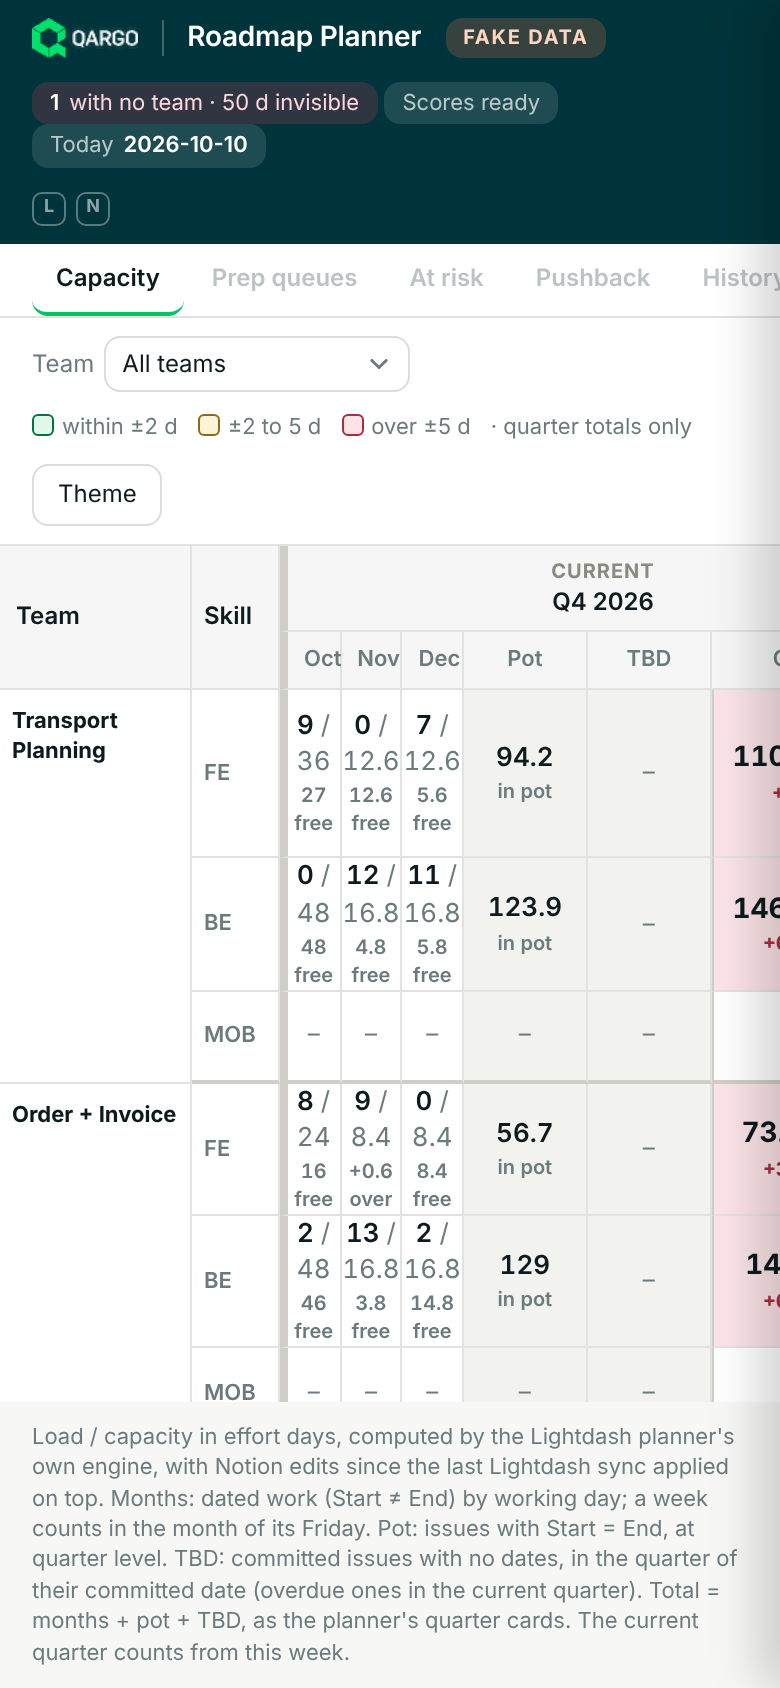
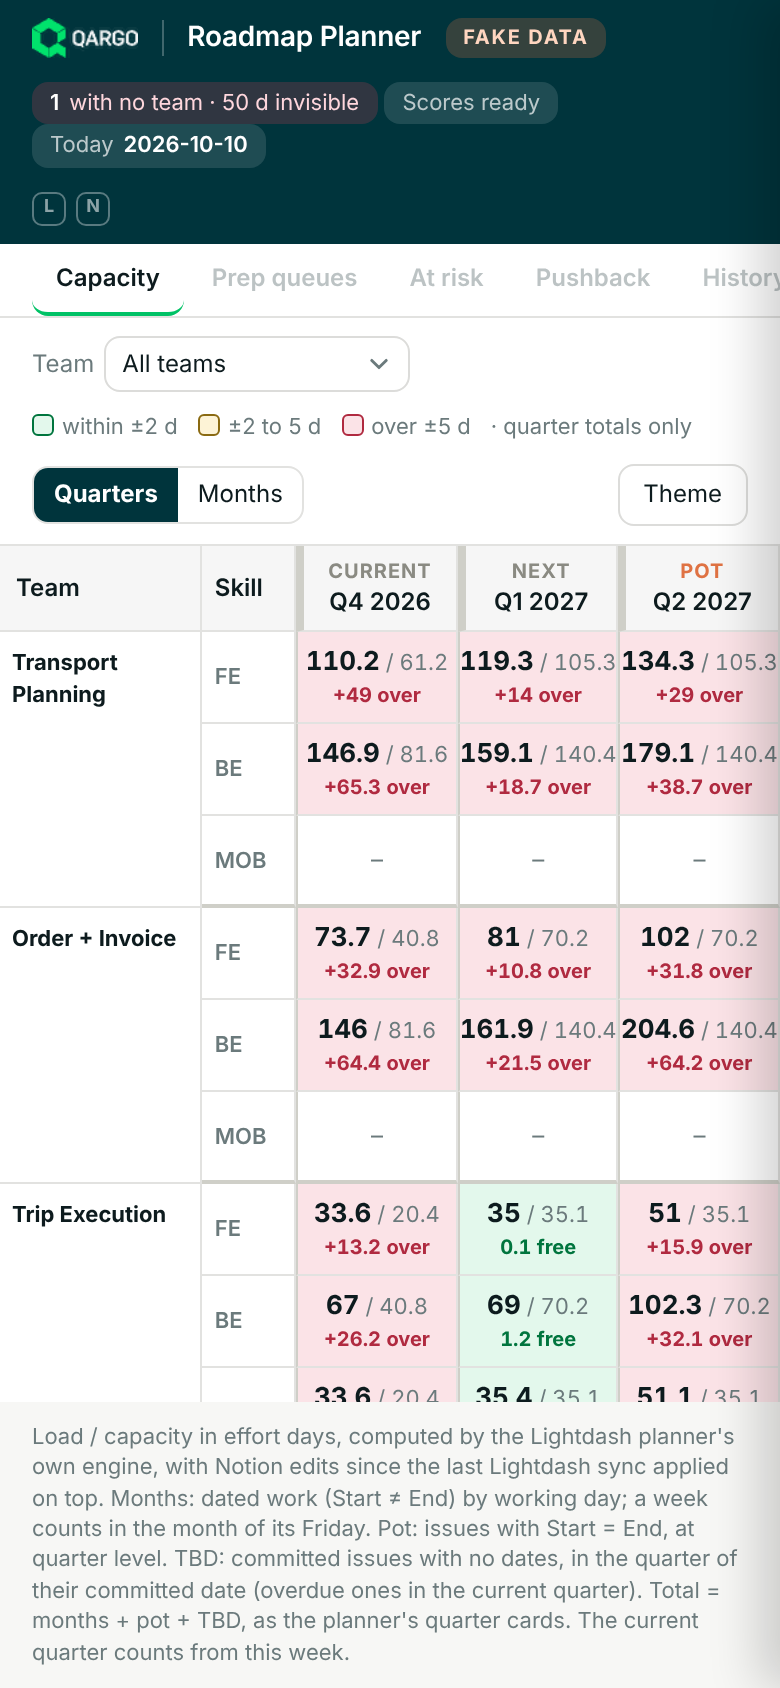
Quarters view (default on phones), pull-forward top 20 with Show all
Claude-Session: https://claude.ai/code/session_01XsKd44qXQpBiwf2E6HxLbu

diff --git a/src/ui/grid.js b/src/ui/grid.js
@@ -1,4 +1,5 @@
 // Capacity grid: rows = team × skill; per quarter its 3 months, the pot and the quarter total.
+// view 'quarters' shows only the quarter totals (default on phones, decided 2026-10-10).
 
 import { TEAMS } from '../capacity.js';
 
@@ -26,20 +27,21 @@ function bucketCell(days, attrs, kind) {
   return `<td class="cell pot ${kind}" ${attrs} title="${fmt(days)} days ${title}"><div class="n">${fmt(days)}</div><div class="d">${kind === 'tbd' ? 'TBD' : 'in pot'}</div></td>`;
 }
 
-export function renderGrid(el, grid, horizon, { teamFilter = 'all' } = {}) {
+export function renderGrid(el, grid, horizon, { teamFilter = 'all', view = 'months' } = {}) {
   const teams = teamFilter === 'all' ? TEAMS : [teamFilter];
-  let h = '<table class="grid"><colgroup><col class="c-team"><col class="c-skill">';
-  for (let i = 0; i < horizon.length; i++) h += '<col><col><col><col class="c-pot"><col class="c-pot"><col class="c-qt">';
-  h += '</colgroup><thead><tr class="q"><th class="lead" rowspan="2">Team</th><th class="lead2" rowspan="2">Skill</th>';
+  const qOnly = view === 'quarters';
+  let h = `<table class="grid ${qOnly ? 'quarters' : ''}"><colgroup><col class="c-team"><col class="c-skill">`;
+  for (let i = 0; i < horizon.length; i++) h += qOnly ? '<col class="c-qt">' : '<col><col><col><col class="c-pot"><col class="c-pot"><col class="c-qt">';
+  h += `</colgroup><thead><tr class="q"><th class="lead" rowspan="${qOnly ? 1 : 2}">Team</th><th class="lead2" rowspan="${qOnly ? 1 : 2}">Skill</th>`;
   for (const q of horizon) {
-    h += `<th colspan="6" class="qdiv ${q.role}"><span class="role">${ROLE_LABEL[q.role]}</span>${esc(q.label)}</th>`;
+    h += `<th colspan="${qOnly ? 1 : 6}" class="qdiv ${q.role}"><span class="role">${ROLE_LABEL[q.role]}</span>${esc(q.label)}</th>`;
   }
-  h += '</tr><tr class="m">';
-  for (const q of horizon) {
+  h += qOnly ? '</tr>' : '</tr><tr class="m">';
+  for (const q of qOnly ? [] : horizon) {
     q.months.forEach((m, i) => { h += `<th class="${i === 0 ? 'qdiv' : ''}">${m.label} ${String(m.year).slice(2)}</th>`; });
     h += `<th title="Issues with Start = End">Pot</th><th title="Committed, no dates yet">TBD</th><th>${q.shortLabel} total</th>`;
   }
-  h += '</tr></thead><tbody>';
+  h += qOnly ? '</thead><tbody>' : '</tr></thead><tbody>';
 
   for (const team of teams) {
     const rows = grid.rows.filter((r) => r.team === team);
@@ -56,6 +58,7 @@ export function renderGrid(el, grid, horizon, { teamFilter = 'all' } = {}) {
       h += `<td class="lead2">${row.skill}</td>`;
       const at = (period) => `data-team="${esc(team)}" data-skill="${row.skill}" data-period="${period}"`;
       row.quarters.forEach((q) => {
+        if (qOnly) { h += cell(q, at(q.key), 'qt qdiv'); return; }
         q.months.forEach((m, i) => { h += cell(m, at(m.key), i === 0 ? 'qdiv' : '', true); });
         h += bucketCell(q.pot, at(`${q.key}-pot`), 'potc');
         h += bucketCell(q.tbd, at(`${q.key}-tbd`), 'tbd');

diff --git a/src/ui/app.js b/src/ui/app.js
@@ -20,7 +20,13 @@ const NOW = new Date(ty, tm - 1, td, 12);
 const horizon = buildHorizon(TODAY);
 const esc = (s) => String(s).replace(/[&<>"]/g, (c) => ({ '&': '&amp;', '<': '&lt;', '>': '&gt;', '"': '&quot;' }[c]));
 
+function initialView() {
+  try { const v = localStorage.getItem('rp.view'); if (v === 'quarters' || v === 'months') return v; } catch { /* storage unavailable */ }
+  return matchMedia('(max-width: 700px)').matches ? 'quarters' : 'months';
+}
+
 const state = {
+  view: initialView(),
   teamFilter: 'all', mode: 'loading', status: null, run: null, grid: null, noTeam: [],
   rows: null, // default Lightdash rows (overlaid)
   // Background load (SPEC "Data flow"): scores need the uncommitted FRs, pull forward the unplanned backlog.
@@ -74,6 +80,7 @@ function shell() {
           <span><span class="sw red"></span>over ±5 d</span>
           <span>· quarter totals only</span>
         </span>
+        <span class="seg" id="viewSeg"><button data-view="quarters">Quarters</button><button data-view="months">Months</button></span>
         <span class="spacer" style="flex:1"></span>
         <button id="themeBtn" title="Light / dark">Theme</button>
       </div>
@@ -85,6 +92,13 @@ function shell() {
 
   document.getElementById('teamSel').addEventListener('change', (e) => { state.teamFilter = e.target.value; draw(); });
   document.getElementById('themeBtn').addEventListener('click', themeToggle);
+  document.getElementById('viewSeg').addEventListener('click', (e) => {
+    const b = e.target.closest('button[data-view]');
+    if (!b) return;
+    state.view = b.dataset.view;
+    try { localStorage.setItem('rp.view', state.view); } catch { /* storage unavailable */ }
+    draw();
+  });
   document.getElementById('grid').addEventListener('click', (e) => {
     const cell = e.target.closest('td.cell[data-period]');
     if (!cell || !state.run) return;
@@ -164,6 +178,7 @@ function renderChrome() {
 }
 
 function draw() {
+  document.querySelectorAll('#viewSeg button').forEach((b) => b.classList.toggle('on', b.dataset.view === state.view));
   if (state.grid) renderGrid(document.getElementById('grid'), state.grid, horizon, state);
 }
 

diff --git a/src/ui/styles.css b/src/ui/styles.css
@@ -204,6 +204,16 @@ table.grid { border-collapse: separate; border-spacing: 0; font-size: 12px; tabl
 .frs li { padding: 6px 0; border-bottom: 1px solid var(--line); color: var(--ink); }
 .frs li .frt { color: var(--muted); margin-top: 2px; }
 .frs .mult { font-weight: 700; color: var(--ok-ink); }
+.seg { display: inline-flex; border: 1px solid var(--line); border-radius: 8px; overflow: hidden; }
+.seg button { border: 0; border-radius: 0; padding: 5px 10px; background: transparent; }
+.seg button.on { background: var(--navy, #00343c); color: #fff; font-weight: 700; }
+details.more > summary { cursor: pointer; list-style: none; text-align: center; padding: 8px; margin: 4px 0 8px; border: 1px dashed var(--line); border-radius: 8px; font-size: 12px; font-weight: 600; color: var(--ink); }
+details.more > summary::-webkit-details-marker { display: none; }
+details.more[open] > summary { display: none; }
+.grid.quarters { width: 100%; min-width: 0; }
+.grid.quarters col.c-team { width: 26%; } .grid.quarters col.c-skill { width: 12%; }
+.grid.quarters td.cell .n { font-size: 13px; white-space: nowrap; } .grid.quarters td.cell .cap { font-size: 11px; } .grid.quarters col.c-qt { width: auto; }
+.grid.quarters .tsum { display: none; }
 .coverline { margin: 8px 0 10px; padding-top: 6px; border-top: 2px solid var(--ok-ink); color: var(--ok-ink); font-size: 11px; font-weight: 700; }
 .coverline.bad { border-top-color: var(--red-ink); color: var(--red-ink); }
 .issue .eff { font-variant-numeric: tabular-nums; }

diff --git a/src/ui/drawer.js b/src/ui/drawer.js
@@ -104,7 +104,11 @@ function suggestions({ run, scores, backlog, extra, team, skill, quarter, c }) {
   const p = pullForward({ run, scores, team, skill, quarter, free, backlog });
   const note = extra.backlog === 'loading' ? ' Unplanned backlog still loading.' : extra.backlog === 'error' ? ' Unplanned backlog unavailable.' : '';
   let h = `<h4>Suggested to pull forward · ${fmt(free)} d free</h4><div class="hint">Planned later or not planned, fits the free days, not blocked. Committed first (buys margin), then highest score.${note}</div>`;
-  h += p.items.map((x) => suggestion(x, skill)).join('') || '<div class="placeholder">Nothing fits the free days.</div>';
+  // Top 20, the rest behind "Show all" (decided 2026-10-10). Push out stays a full list.
+  const top = p.items.slice(0, 20).map((x) => suggestion(x, skill)).join('');
+  const rest = p.items.slice(20).map((x) => suggestion(x, skill)).join('');
+  h += top || '<div class="placeholder">Nothing fits the free days.</div>';
+  if (rest) h += `<details class="more"><summary>Show all ${p.items.length}</summary>${rest}</details>`;
   h += `<h4>Quick wins that fit · ${p.quickWins.length}</h4><div class="hint">No commit, at most 2 d total effort, highest score first. Your call.</div>`;
   h += p.quickWins.map((x) => suggestion(x, skill)).join('') || '<div class="placeholder">No quick wins fit.</div>';
   return h;

diff --git a/SPEC.md b/SPEC.md
@@ -125,10 +125,13 @@ The main screen is the capacity puzzle; everything else feeds it or warns about 
 - Each cell: planned days vs capacity. Quarter totals: green within ±2 days, amber to ±5, red beyond.
 - Month cells are neutral (no colour): with pot work at quarter level, month load alone says little. Only quarter totals are coloured. Decided 2026-10-09, replaces the earlier "scaled month thresholds".
 - Click a cell: the issues in it, sorted by committed date then score.
+- Views: Quarters (team × skill × quarter totals only, default on phones) and Months (the full grid, default on desktop). The choice is remembered per viewer. Decided 2026-10-10.
+- Every issue card shows its FR count (with go-live and Top 3 counts); tapping it lists each FR with priority, customer and deal-size multiplier. Decided 2026-10-10.
 - Suggestions sit on quarter totals only (months are neutral). Rules decided 2026-10-10:
   - Over capacity, push out: the quarter's issues with no commit and not in progress (Implementing, To implement this week, To test, Production Ready). Quick wins first, then lowest score. Full list, with a line where the overbooking is covered.
   - Under capacity, pull forward: issues of that team and skill planned after the quarter or not planned, whose effort in that skill fits the free days, not Blocked/on hold and no open "Blocked by". Committed issues first, because pulling them forward buys margin: planned after their commit first, then by committed date. Then the rest by highest score.
   - Quick wins that fit: uncommitted quick wins, own section, highest score first.
+  - Pull forward shows the top 20, the rest behind "Show all". Push out is always the full list.
 
 **2. Date buttons on every issue**
 
